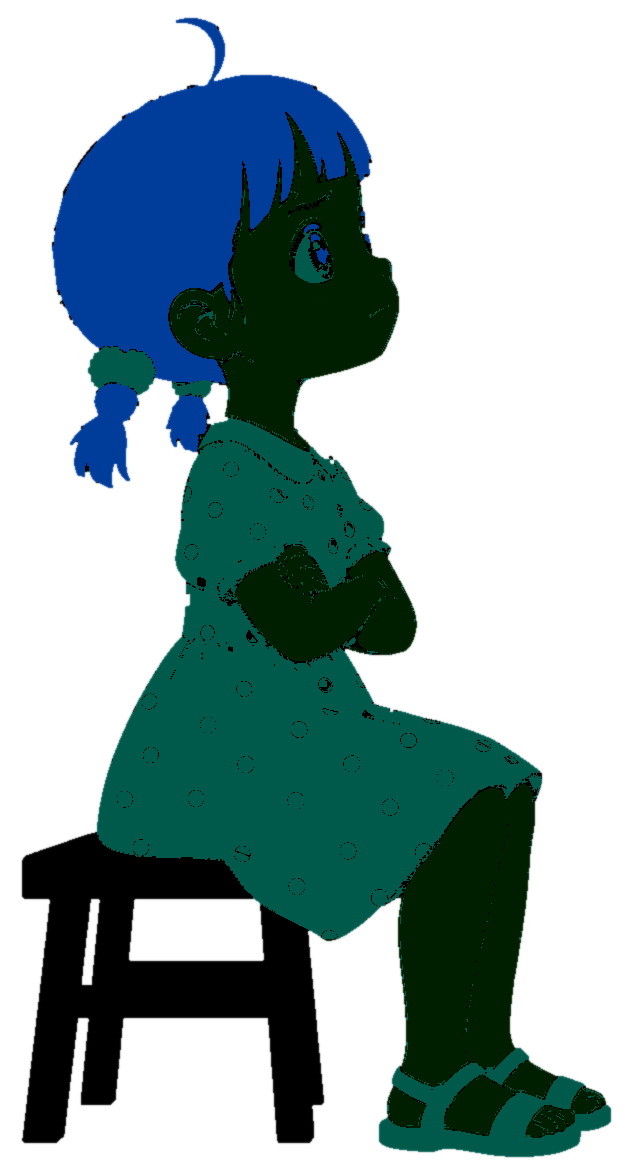
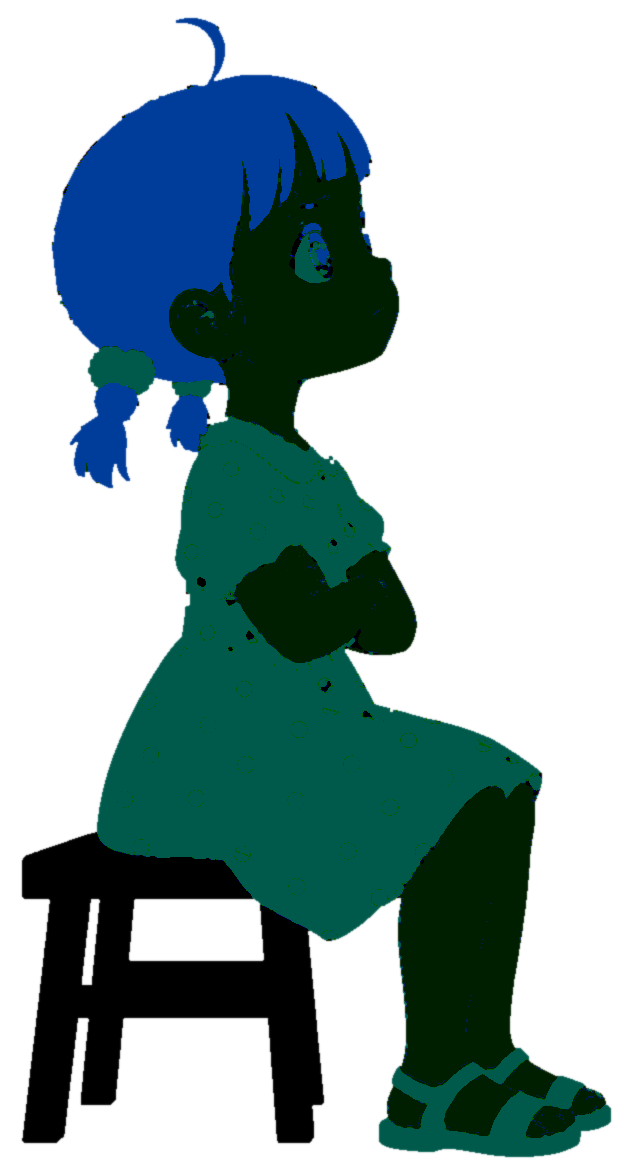
后台机位 C：奶奶（图）+ 挂着的马灯 + 两根竹签 + 床单背面和鹤
- 着色器：从后台也能看到床单（这一面直接被马灯照亮，影子一样）；材质 8 自己发光（马灯的玻璃罩和火苗）；
  后台的人物卡片受马灯照时不被代表她自己的遮挡球挡；灯在卡片背面时把灯的方向沿卡片平面镜像到正面
  （二维画里的人侧身朝灯，朝灯那侧被照亮，不再斑斑驳驳）
- s06_key.js 改成通用的 renderShot（镜头、人物卡片、签子手端、曝光可按镜头设定），第 6 场输出不变；billboardM 放图
- cards.js：addStroke（竹签）、裁切支持多个多边形
- s08_back.js：奶奶的站位、马灯（程序画）、鹤从后台看是皮面、两根签子从拳头里的握点画到鹤的 body/neck3 接点，
  床单上的签子影子用同样的手端；图上方向不一的短签裁掉
- card_maps.py：法线按材质区域和四肢的深轮廓线分块，印花、发丝、皱纹只进颜色；黑帽找线；奶奶的灰白头发、蓝衬衫、藏青裤子、黑布鞋的材质
- 测试静帧：renders/checkpoint2/s08_back_C_test.jpg

Claude-Session: https://claude.ai/code/session_018izVeBsCAWYGJUmZwpX2YC

diff --git a/js/lamp/s08_back.js b/js/lamp/s08_back.js
@@ -1,0 +1,114 @@
+// 第 8 场 · 后台机位 C：从床单背面的西北角看，画面从左到右是奶奶 → 挂着的马灯 → 床单背面和鹤。
+// 奶奶是合作 AI 画的图（collab/refs/anim_20_grandma_puppeteer.png），抠图后算好法线和材质；
+// 两根竹签由程序从她手心的握点画到鹤身上的两个接点（第四版 makeCrane 的 body / neck3），床单上的签子影子用同样的手端位置算；
+// 鹤从后台看是皮面（drawPuppet 'r'），贴在床单背面前 4 毫米；马灯是程序画的，玻璃罩和火苗自己发光。
+import { renderShot, billboardM, S, CRANE_ROOT, RODS, DEBUG, cranePose } from './s06_key.js';
+import { solve, pointOn, drawPuppet } from '../puppet.js';
+
+export const DURATION = 5;
+
+// 奶奶站的地方：这个镜头里比第 6 场往后、往东挪一点，马灯才在她和床单之间露出来，不被她挡住
+export const GRANDMA = { pos: [1.25, 1.15] };
+// 图：脚底中点（图片像素）、每厘米像素（身高约 1.5 米）、两只手的握点（低的握主签、高的握头签）
+// 图上手里那几截短签方向不一（握签的那只低手前后两截还错开了一点），裁掉露在拳头外面的部分（erase），
+// 由程序从拳头里的握点画一根直的长签，拳头盖住签子的根，签子从握点自然伸出去
+const GR = { file: 'g20_puppeteer', ox: 245, oy: 1363, sc: 9.04, grips: [[578, 641], [590, 466]],
+  erase: [[[608, 445], [665, 445], [665, 482], [608, 482]], [[588, 626], [618, 626], [618, 654], [588, 654]], [[460, 668], [495, 668], [495, 694], [460, 694]]] };
+const CAM_C = { pos: [-0.2, 1.5, 1.2], target: [1.1, 0.75, 0.95], hfov: 60 };
+
+let GM = null, LAMPM = null, CRANEC = null;
+const load = async (u) => createImageBitmap(await (await fetch(u)).blob());
+async function loadMaps(f) { const b = '/assets/chars/' + f; const [alb, nrm, mat] = await Promise.all([load(b + '.png'), load(b + '_n.png'), load(b + '_m.png')]); return { alb, nrm, mat }; }
+
+// 平涂的卡片：给一张固有色画布，配上朝镜头的法线和一种材质
+function flatMaps(alb, mat = 0, extra = 0) {
+  const mk = (fill) => { const c = new OffscreenCanvas(alb.width, alb.height), x = c.getContext('2d'); x.drawImage(alb, 0, 0); x.globalCompositeOperation = 'source-in'; x.fillStyle = fill; x.fillRect(0, 0, c.width, c.height); return c; };
+  return { alb, nrm: mk('rgb(128,128,255)'), mat: mk(`rgb(0,${mat * 30},${Math.round(extra * 255)})`) };
+}
+
+// 马灯（风灯）：铁皮油壶、玻璃罩、上盖、两根护罩铁丝、提梁，挂在钩子上。局部厘米，原点在火苗；画成 10 像素/厘米的图
+function makeLamp() {
+  const K = 10, W = 26 * K, H = 46 * K, ox = 13 * K, oy = 24 * K;     // 火苗在 (13, 24) 厘米处
+  const P = (x, y) => [ox + x * K, oy - y * K];
+  const layer = () => { const c = new OffscreenCanvas(W, H); return [c, c.getContext('2d')]; };
+  const [metal, mx] = layer(), [glass, gx] = layer(), [flame, fx] = layer();
+  const ell = (ctx, x, y, rx, ry, fill) => { ctx.fillStyle = fill; ctx.beginPath(); ctx.ellipse(...P(x, y), rx * K, ry * K, 0, 0, 6.283); ctx.fill(); };
+  const rect = (ctx, x0, y0, x1, y1, fill) => { const a = P(x0, y1), b = P(x1, y0); ctx.fillStyle = fill; ctx.fillRect(a[0], a[1], b[0] - a[0], b[1] - a[1]); };
+  // 玻璃罩（被火苗照得发亮，越靠中间越亮）
+  const g = gx.createRadialGradient(...P(0, 0.5), 0, ...P(0, 0.5), 6.5 * K);
+  g.addColorStop(0, 'rgb(255,214,150)'); g.addColorStop(0.6, 'rgb(240,170,90)'); g.addColorStop(1, 'rgb(170,100,45)');
+  gx.fillStyle = g; gx.beginPath(); gx.ellipse(...P(0, 0.5), 5.2 * K, 7.0 * K, 0, 0, 6.283); gx.fill();
+  // 火苗
+  fx.fillStyle = 'rgb(255,236,180)'; fx.beginPath();
+  fx.moveTo(...P(0, 2.6)); fx.quadraticCurveTo(...P(1.0, 0.6), ...P(0.6, -0.6)); fx.quadraticCurveTo(...P(0, -1.1), ...P(-0.6, -0.6)); fx.quadraticCurveTo(...P(-1.0, 0.6), ...P(0, 2.6)); fx.fill();
+  // 铁皮：油壶、灯座、上盖、护罩铁丝、提梁、挂钩
+  const iron = 'rgb(58,48,42)', ironHi = 'rgb(92,74,60)';
+  ell(mx, 0, -9.5, 7.5, 3.2, iron); rect(mx, -7.5, -12.5, 7.5, -9.5, iron); ell(mx, 0, -12.5, 7.5, 1.6, ironHi);     // 油壶
+  rect(mx, -4.5, -7.6, 4.5, -6.0, ironHi);                                                                        // 灯座
+  rect(mx, -4.0, 7.0, 4.0, 8.4, iron); ell(mx, 0, 9.2, 4.6, 1.6, iron); rect(mx, -1.2, 9.5, 1.2, 11.0, iron);     // 上盖、烟囱
+  mx.strokeStyle = iron; mx.lineWidth = 0.45 * K; mx.lineCap = 'round';
+  for (const s of [-1, 1]) { mx.beginPath(); mx.moveTo(...P(s * 7.0, -9.5)); mx.quadraticCurveTo(...P(s * 7.6, 0.5), ...P(s * 4.0, 7.5)); mx.stroke(); }   // 护罩铁丝
+  mx.beginPath(); mx.moveTo(...P(-6.5, -9)); mx.bezierCurveTo(...P(-9, 10), ...P(-4, 17), ...P(0, 17)); mx.bezierCurveTo(...P(4, 17), ...P(9, 10), ...P(6.5, -9)); mx.stroke();   // 提梁
+  mx.lineWidth = 0.3 * K; mx.beginPath(); mx.moveTo(...P(0, 17)); mx.lineTo(...P(0, 22)); mx.stroke();          // 挂绳
+  return { K, ox, oy, metal: flatMaps(metal, 0), glass: flatMaps(glass, 8, 0.25), flame: flatMaps(flame, 8, 1.0) };
+}
+
+// 鹤从后台看：皮面贴图（drawPuppet 'r'），2 像素/毫米，原点 (900, 1000)
+function craneCard(pup, pose) {
+  const c = new OffscreenCanvas(1800, 1800), x = c.getContext('2d');
+  x.translate(900, 1000); x.scale(2, -2);
+  drawPuppet(x, pup, pose, 'r');
+  return { maps: flatMaps(c, 0), px: (mm) => [900 + mm[0] * 2, 1000 - mm[1] * 2] };
+}
+
+// 图片像素 → 世界：奶奶的卡片正对镜头，脚底中点在她站的地方
+function gripWorld(cam, base, p) {
+  const x = (p[0] - GR.ox) / GR.sc / 100, y = (GR.oy - p[1]) / GR.sc / 100;
+  return [base[0] + cam.right[0] * x + cam.up[0] * y, base[1] + cam.right[1] * x + cam.up[1] * y, base[2] + cam.right[2] * x + cam.up[2] * y];
+}
+
+const shot = {
+  cam: CAM_C,
+  exp: 0.32,         // 人离马灯只有六十厘米，比看戏那边亮得多，曝光收到三分之一
+  // 床单上签子影子的手端：用她手心握点的世界位置 [x, z, 离床单]
+  hands: (root, t, cam) => {
+    const base = [GRANDMA.pos[0], GRANDMA.pos[1], 0];
+    return GR.grips.map((g) => { const w = gripWorld(cam, base, g); return [w[0], w[2], w[1]]; });
+  },
+  cards: async (CARDS, cam, t, ctx) => {
+    GM ||= await loadMaps(GR.file);
+    LAMPM ||= makeLamp();
+    const pose = cranePose(t), root = ctx.root, dist = 0.004;
+    // 1. 鹤（最远，贴着床单背面）：鹤的毫米 → 世界 (x, 离床单, z) → 画面
+    const cc = craneCard(ctx.crane, pose);
+    const W = (mm) => cam.project([root[0] + (pose.facing ?? 1) * mm[0] / 1000, dist, root[1] + mm[1] / 1000]);
+    const q0 = W([0, 0]), q1 = W([100, 0]), q2 = W([0, 100]);
+    // 贴图像素 → 毫米：x = (px - 900) / 2，y = (1000 - py) / 2；再接毫米 → 画面
+    const a = [(q1[0] - q0[0]) / 100, (q1[1] - q0[1]) / 100, (q2[0] - q0[0]) / 100, (q2[1] - q0[1]) / 100];
+    const mCrane = [a[0] / 2, a[1] / 2, -a[2] / 2, -a[3] / 2, q0[0] - a[0] * 450 + a[2] * 500, q0[1] - a[1] * 450 + a[3] * 500];
+    CARDS.addImage([{ maps: cc.maps, m: mCrane }], q0[2]);
+    // 2. 马灯（挂在床单和奶奶之间），火苗在 S.lamp
+    const L = S.lamp, lampBase = [L.x, L.y, L.z];
+    const mL = billboardM(cam, lampBase, LAMPM.ox, LAMPM.oy, LAMPM.K), dL = cam.project(lampBase)[2];
+    CARDS.addImage([{ maps: LAMPM.metal, m: mL }, { maps: LAMPM.glass, m: mL }, { maps: LAMPM.flame, m: mL }], dL);
+    // 3. 两根竹签：从手心握点到鹤身上的接点（同一条世界直线）
+    const base = [GRANDMA.pos[0], GRANDMA.pos[1], 0];
+    const sol = solve(ctx.crane, pose);
+    RODS.forEach((r, i) => {
+      const pm = pointOn(ctx.crane, sol, r.part, r.at);
+      const A = cam.project([root[0] + (pose.facing ?? 1) * pm[0] / 1000, dist, root[1] + pm[1] / 1000]);
+      const B = cam.project(gripWorld(cam, base, GR.grips[i]));
+      CARDS.addStroke([[A[0], A[1]], [B[0], B[1]]], Math.max(1.5, 0.007 * B[3]), '#9a7848', (A[2] + B[2]) / 2);
+    });
+    // 4. 奶奶（最近）
+    const dG = cam.project(base)[2];
+    CARDS.addImage([{ maps: GM, m: billboardM(cam, base, GR.ox, GR.oy, GR.sc), clip: { pts: GR.erase, invert: true } }], dG);
+  },
+};
+
+export async function render(ctx, arg, W, H) {
+  let t = +arg || 0;
+  if (arg && arg.startsWith('{')) { const o = JSON.parse(arg); Object.assign(DEBUG, o); t = o.t ?? 0; }
+  return renderShot(ctx, t, W, H, shot);
+}
+export async function renderFrame(ctx, t, W, H) { return renderShot(ctx, t, W, H, shot); }

diff --git a/js/lamp/s06_key.js b/js/lamp/s06_key.js
@@ -47,6 +47,11 @@ function xmProxy() {
 }
 S.occ = xmProxy();
 export const CRANE_ROOT = [1.36, 0.66];
+// 两根签子：接在鹤身子后部（翅膀底下）和第 4 节脖子上；hand(root) 是第 6 场默认的手端 [x, z, 离床单的距离]
+export const RODS = [
+  { part: 'body', at: [-75, 6], hand: (root) => [root[0] - 0.13, root[1] - 0.10, 0.42] },
+  { part: 'neck3', at: [10, 0], hand: (root) => [root[0] + 0.20, root[1] + 0.10, 0.42] },
+];
 
 // ---------------------------------------------------------------- 镜头
 export function camera(W, H, o = {}) {
@@ -73,7 +78,7 @@ const sstep = (a, b, x) => { const u = Math.min(1, Math.max(0, (x - a) / (b - a)
 const backOut = (a, b, x) => { const u = Math.min(1, Math.max(0, (x - a) / (b - a))); const c = 1.4; return 1 + (c + 1) * Math.pow(u - 1, 3) + c * Math.pow(u - 1, 2); };
 // 鹤亮相：先低着头（像在水里找东西），1.0 秒起慢慢把脖子扬起来（略冲过头再回来），然后左右看看
 export const raiseAt = (t) => backOut(1.0, 2.5, t);
-function cranePose(t) {
+export function cranePose(t) {
   // 预备：扬起之前脖子先往下沉一点（0.55～1.05 秒），再扬起、略冲过头、收住
   const prep = t > 0.55 && t < 1.15 ? Math.sin(Math.PI * Math.min(1, (t - 0.55) / 0.6)) ** 2 : 0;
   const r = raiseAt(t) - 0.14 * prep, angles = {};
@@ -134,13 +139,42 @@ export async function render(ctx, arg, W, H) {
   return renderFrame(ctx, +arg || 0, W, H);
 }
 
-export async function renderFrame(ctx, t, W, H) {
+// 一张画好的图正对镜头放在世界里（卡片垂直于视线）：图片像素 (ox, oy) 落在世界点 base，sc = 每厘米多少像素。
+// 二维画的侧面不会被斜着看压窄，也没有仰视的上下透视，投影就是缩放加平移。返回图片像素 → 画面像素的仿射变换
+export function billboardM(cam, base, ox, oy, sc) {
+  const P = (px, py) => {
+    const x = (px - ox) / sc / 100, y = (oy - py) / sc / 100;
+    const r = cam.project([base[0] + cam.right[0] * x + cam.up[0] * y, base[1] + cam.right[1] * x + cam.up[1] * y, base[2] + cam.right[2] * x + cam.up[2] * y]);
+    return [r[0], r[1]];
+  };
+  const p0 = P(0, 0), p1 = P(100, 0), p2 = P(0, 100);
+  return [(p1[0] - p0[0]) / 100, (p1[1] - p0[1]) / 100, (p2[0] - p0[0]) / 100, (p2[1] - p0[1]) / 100, p0[0], p0[1]];
+}
+
+// 第 6 场的人物卡片：小满坐在小板凳上看鹤
+async function cards06(CARDS, cam, t) {
+  const c0 = cam.project(xmWorld([0, 0])), depth = c0[2], sc = c0[3] / 100;
+  if (DEBUG.xm === 'image') {
+    // 小满用画好的图（xm_rig.js）；位置是她坐的地方（凳面中心）。镜头只仰 11°，脚底因此离地面差几厘米，看不出来
+    XMI ||= await loadRig(RIG16);
+    const R = RIG16, base = xmWorld([0, 0]); base[2] = (R.floorY - R.oy) / R.sc / 100;
+    CARDS.addImage(layers16(R, XMI, billboardM(cam, base, R.ox, R.oy, R.sc), pose16(t)), depth);
+  } else {
+    const map = (p) => { const r = cam.project(xmWorld(p)); return [r[0], r[1]]; };
+    CARDS.addAll(XMC.parts(map, xmPose(t), sc), depth);
+  }
+}
+
+export async function renderFrame(ctx, t, W, H) { return renderShot(ctx, t, W, H, {}); }
+
+// 床单戏的通用渲染：shot = { cam, cards(CARDS, cam, t), hands(root, t) → 两根签子的手端 [x, z, 离床单], cranePose(t), afterCards(CARDS, cam, t) }
+export async function renderShot(ctx, t, W, H, shot) {
   const pal = DEBUG.palette || 'plain';
   if (cranePal !== pal) { crane = makeCrane(1.35, pal); cranePal = pal; }
   POND ||= makePond(); WILLOW ||= makeWillow();
   if (!G || G.W !== W || G.H !== H) G = new GL(W, H);
   QUILTS ||= { L: quiltTex('L'), R: quiltTex('R') };
-  const cam = camera(W, H, DEBUG.cam || {});
+  const cam = camera(W, H, DEBUG.cam || shot.cam || {});
   const flick = 1 + 0.035 * Math.sin(t * 13.1) + 0.025 * Math.sin(t * 7.3 + 1.1) + 0.02 * Math.sin(t * 23.7);
 
   // 1. 床单：物理影子图
@@ -151,32 +185,14 @@ export async function renderFrame(ctx, t, W, H) {
   const img = sheetImage(sh, lampSP, [
     { pup: POND, pose: still, root: [1.30, 0.34], dist: 0.003 },
     { pup: WILLOW, pose: { ...still, rootAngle: -0.03 }, root: [sh.x0 + 0.05, sh.z1 - 0.13], dist: 0.003 },
-    { pup: crane, pose: cranePose(t), root, dist,
-    rods: [{ part: 'body', at: [-75, 6], hand: [root[0] - 0.13, root[1] - 0.10, 0.42] }, { part: 'neck3', at: [10, 0], hand: [root[0] + 0.20, root[1] + 0.10, 0.42] }] }], 900, { split: true, rodMin: 0.06, rodA: 0.8, rodFade: 0.05, rodBlur: 1.0, rodBlurMax: 46 });
+    { pup: crane, pose: (shot.cranePose || cranePose)(t), root, dist,
+    rods: RODS.map((r, i) => ({ ...r, hand: shot.hands ? shot.hands(root, t, cam)[i] : r.hand(root) })) }], 900, { split: true, rodMin: 0.06, rodA: 0.8, rodFade: 0.05, rodBlur: 1.0, rodBlurMax: 46 });
   const patches = patchRadiance(img.mask, sh, L, flick);
 
   // 2. 卡片（人物、道具）
   CARDS = CARDS && CARDS.W === W ? CARDS : new Cards(W, H);
   CARDS.clear();
-  {
-    const c0 = cam.project(xmWorld([0, 0])), depth = c0[2], sc = c0[3] / 100;
-    const map = (p) => { const r = cam.project(xmWorld(p)); return [r[0], r[1]]; };
-    if (DEBUG.xm === 'image') {
-      // 小满用画好的图（xm_rig.js）：图片像素 → 局部厘米 → 世界 → 画面
-      XMI ||= await loadRig(RIG16);
-      // 卡片垂直于镜头的视线（正对镜头）：二维画的侧面不会被斜着看压窄，也没有仰视的上下透视，投影就是缩放加平移。
-      // 位置还是她坐的地方（凳面中心）。镜头只仰 11°，脚底因此离地面差几厘米，看不出来
-      const R = RIG16, seat = (R.floorY - R.oy) / R.sc / 100, base = xmWorld([0, 0]); base[2] = seat;
-      const P = (px, py) => {
-        const x = (px - R.ox) / R.sc / 100, y = (R.oy - py) / R.sc / 100;
-        const r = cam.project([base[0] + cam.right[0] * x + cam.up[0] * y, base[1] + cam.right[1] * x + cam.up[1] * y, base[2] + cam.right[2] * x + cam.up[2] * y]);
-        return [r[0], r[1]];
-      };
-      const p0 = P(0, 0), p1 = P(100, 0), p2 = P(0, 100);
-      const m = [(p1[0] - p0[0]) / 100, (p1[1] - p0[1]) / 100, (p2[0] - p0[0]) / 100, (p2[1] - p0[1]) / 100, p0[0], p0[1]];
-      CARDS.addImage(layers16(R, XMI, m, pose16(t)), depth);
-    } else CARDS.addAll(XMC.parts(map, xmPose(t), sc), depth);
-  }
+  await (shot.cards || cards06)(CARDS, cam, t, { root, crane, flick });
   const cards = { alb: CARDS.alb, nrm: CARDS.nrm, mat: CARDS.mat };
 
   // 3. 上传、逐遍渲染
@@ -209,7 +225,7 @@ export async function renderFrame(ctx, t, W, H) {
     return b;
   };
   const b4 = blur(d4, 'b4'), b8 = blur(d8, 'b8'), b16 = blur(d16, 'b16');
-  gl.draw('final', null, { uRes: [W, H], uExp: 4.0 * (DEBUG.exp ?? 1), uTime: t, uBloom: 0.10 * (DEBUG.bloom ?? 1) }, { uSrc: tComb, uB1: b4, uB2: b8, uB3: b16 });
+  gl.draw('final', null, { uRes: [W, H], uExp: 4.0 * (DEBUG.exp ?? shot.exp ?? 1), uTime: t, uBloom: 0.10 * (DEBUG.bloom ?? 1) }, { uSrc: tComb, uB1: b4, uB2: b8, uB3: b16 });
   ctx.save(); ctx.setTransform(1, 0, 0, 1, 0, 0);
   ctx.drawImage(gl.cv, 0, 0);
   if (DEBUG.proxy) {   // 调试：把人物的遮挡球投到画面上，看构图

diff --git a/js/lamp/shaders.js b/js/lamp/shaders.js
@@ -113,6 +113,17 @@ vec3 lampE(vec3 P, vec3 N) {
   if (c <= 0.0) return vec3(0);
   return LAMP_RGB * uLampI * c / r2 * lampVis(P);
 }
+// 卡片（人物）受马灯照：后台的人物卡片不被代表她自己身体的遮挡球挡（不然自己把自己照得斑斑驳驳）
+// 卡片是一张正对镜头的二维画：灯在卡片背面（比人离镜头还远）时，把灯的方向沿卡片平面镜像到正面——
+// 画里的人是侧着身子朝灯的，朝灯那一侧（脸、手）就该被照亮；不镜像的话只有法线偏向灯的小块被照到，斑斑驳驳
+vec3 lampEcard(vec3 P, vec3 N) {
+  if (P.y < 0.0) return lampE(P, N);
+  vec3 d = uLamp - P; float r2 = dot(d, d); vec3 l = d * inversesqrt(r2);
+  vec3 cn = -uFwd; float k = 1.0;
+  if (dot(l, cn) < 0.0) { l = normalize(l - 2.0 * dot(l, cn) * cn); k = 0.85; }
+  float c = max(0.0, dot(N, l));
+  return LAMP_RGB * uLampI * k * c / r2 * beamsVis(P, uLamp);
+}
 // ---------------- 床单这块面光源对 P 的照度（只照看戏的这边）
 vec3 patchCenter(int i, int j) {
   float x = SHEET.x + (float(i) + 0.5) * (SHEET.y - SHEET.x) / 8.0;
@@ -223,11 +234,12 @@ vec3 shadeDiffuse(vec3 P, vec3 N, vec3 alb, bool shadows) {
 // ---------------- 卡片（人物、道具）
 vec3 shadeCard(vec3 P, vec3 N, vec3 V, vec3 alb, float mat, float extra) {
   int m = int(mat * 255.0 / 30.0 + 0.5);   // cards.js 里材质号 × 30 存的
+  if (m == 8) return alb * (1.0 + 7.0 * extra) * uLampI;   // 自己发光（马灯的火苗和玻璃罩），亮度随火苗闪
   float wrap = m == 1 ? 0.6 : (m == 2 ? 0.3 : 0.55);
   // 地面反光：床单前面被照亮的地面把暖光从下往上反到人身上（离床单越近越亮）
   vec3 fl = vec3(P.x + 0.25, -0.35, 0.0) - P; vec3 fw = normalize(fl);
   vec3 bounce = LAMP_RGB * ${S.bounce} * (m == 3 ? 1.6 : 1.0) * max(0.0, (dot(N, fw) + 0.5) / 1.5) * smoothstep(-3.0, -0.5, P.y);
-  vec3 E = sheetE(P, N, wrap, false) * ${S.cardSheetGain} + lampE(P, N) + moonE(P, N, false) * (m == 3 ? 0.15 : 0.3) + ambient(P, N) * 1.5 + bounce;
+  vec3 E = sheetE(P, N, wrap, false) * ${S.cardSheetGain} + lampEcard(P, N) + moonE(P, N, false) * (m == 3 ? 0.15 : 0.3) + ambient(P, N) * 1.5 + bounce;
   if (m == 1) E += LAMP_RGB * 0.02 + vec3(0.014, 0.005, 0.002);
   if (m == 3) E += LAMP_RGB * 0.012;   // 皮肤：暗部也透着一点暖（皮下散射）
   vec3 c = alb * E / PI;
@@ -257,7 +269,7 @@ void main() {
   vec3 bn; float tb = beamHit(ro, rd, bn);
   vec3 col; float depth;
   // 布帘平面
-  float tc = rd.y > 0.0 ? -ro.y / rd.y : 1e9;
+  float tc = ro.y * rd.y < 0.0 ? -ro.y / rd.y : 1e9;   // 从前面或后台都能看到床单所在的平面
   int kind = 0;   // 0 屋子 1 床单 2 左被 3 右毯 4 铁丝 5 夹子 6 房梁
   vec2 q;
   if (tb < t) { t = tb; n = bn; kind = 6; }
@@ -288,6 +300,8 @@ void main() {
        + pow(texture(uSheet, suv + vec2(0, du.y)).rgb, vec3(2.2)) + pow(texture(uSheet, suv - vec2(0, du.y)).rgb, vec3(2.2))) * 0.15;
     msk = mix(msk, vec3(dot(msk, vec3(0.3, 0.5, 0.2))), 0.15);
     vec3 s = vec3(diff + hot, diff + hot * 0.92, diff + hot * 0.8) * LAMP_RGB * msk;
+    // 从后台看：床单这一面直接被马灯照着（棉布反射约 0.7，比透过去的亮），没有"透过布看见灯芯"的那团亮；影子一样
+    if (ro.y > 0.0) s = vec3(diff * (0.7 / ${S.sheetTau}) / PI + hot * 0.08) * LAMP_RGB * msk;
     // 挂起来的褶：上沿夹子之间往下垂的弧形褶，下沿轻微的波浪；棉布在褶子处厚一点、暗一点
     float fold = 0.5 + 0.5 * sin((q.x - PIN0) / PINDX * 2.0 * PI);
     float topFold = exp(-(sheetTop(q.x) - q.y) * 9.0) * fold;

diff --git a/js/lamp/cards.js b/js/lamp/cards.js
@@ -157,7 +157,8 @@ export class Cards {
       if (L.clip) {
         ctx.beginPath();
         if (L.clip.invert) ctx.rect(-10, -10, img.width + 20, img.height + 20);
-        L.clip.pts.forEach(([x, y], i) => (i ? ctx.lineTo(x, y) : ctx.moveTo(x, y))); ctx.closePath();
+        const polys = Array.isArray(L.clip.pts[0][0]) ? L.clip.pts : [L.clip.pts];     // 一个或几个多边形
+        for (const poly of polys) { poly.forEach(([x, y], i) => (i ? ctx.lineTo(x, y) : ctx.moveTo(x, y))); ctx.closePath(); }
         ctx.clip(L.clip.invert ? 'evenodd' : 'nonzero');
       }
       ctx.globalAlpha = L.alpha ?? 1;
@@ -189,6 +190,14 @@ export class Cards {
     } }
     this.cleanMat([{ bbox: [a, b, c, d] }]);
     return [a, b, c, d];
+  }
+  // 一根细杆（比如皮影的竹签）：画面像素的折线，宽 w 像素；法线朝镜头略圆，材质 mat
+  addStroke(pts, w, color, depth, mat = 0) {
+    const path = () => { const p = new Path2D(); pts.forEach(([x, y], i) => (i ? p.lineTo(x, y) : p.moveTo(x, y))); return p; };
+    const go = (ctx, style, lw) => { ctx.save(); ctx.strokeStyle = style; ctx.lineWidth = lw; ctx.lineCap = 'round'; ctx.lineJoin = 'round'; ctx.stroke(path()); ctx.restore(); };
+    go(this.a, color, w);
+    go(this.n, 'rgb(128,128,255)', w);
+    go(this.m, `rgb(${Math.round((depth / 8) * 255)},${mat * MAT_STEP},0)`, w);
   }
   // 材质图上，两种材质交界处抗锯齿会混出中间值（比如皮肤 30 和眼睛高光 120 混成 75，会被当成"布"打光）。
   // 把这些像素换成旁边干净像素的材质号——材质边界不需要抗锯齿，颜色和法线本来就是平滑的。

diff --git a/tools/card_maps.py b/tools/card_maps.py
@@ -1,8 +1,8 @@
 # 透明底的人物图 → 光照卡片要的法线图和材质图（编码和 js/lamp/cards.js 一致）。
-# 法线：深色的轮廓线、衣褶线当作分界，每块区域按到分界的距离"鼓"起来（圆弧截面），再模糊一点；
-#       线本身取旁边区域的法线。外轮廓边上法线是横的，被侧光、逆光勾出亮边。
+# 法线：按材质区域（皮肤、头发、布）和很深的轮廓线分块，每块按到分界的距离"鼓"起来（圆弧截面），再模糊一点；
+#       细节线（印花、发丝、衣褶）只进颜色。外轮廓边上法线是横的，被侧光、逆光勾出亮边。
 # 材质：按颜色分——皮肤 1、头发 2、布 3（裙子、领子、绒球、凉鞋），其他（凳子）0；线取旁边区域的材质。
-# 用法：python3 -I tools/card_maps.py 透明底.png 法线.png 材质.png [圆鼓半径像素]
+# 用法：python3 -I tools/card_maps.py 透明底.png 法线.png 材质.png [圆鼓半径像素] [灰白头发：图片顶部多少比例以内]
 import sys
 import numpy as np
 from PIL import Image
@@ -10,22 +10,48 @@ from scipy import ndimage as ndi
 
 src, out_n, out_m = sys.argv[1:4]
 R = float(sys.argv[4]) if len(sys.argv) > 4 else 18.0
+greyTop = float(sys.argv[5]) if len(sys.argv) > 5 else 0.0
 im = np.array(Image.open(src).convert('RGBA')).astype(np.float32)
 rgb, a = im[..., :3], im[..., 3] / 255.0
 r, g, b = rgb[..., 0], rgb[..., 1], rgb[..., 2]
 L = rgb @ np.array([0.299, 0.587, 0.114])
 solid = a > 0.5
-# 比周围暗一截、而且本身就暗的细线（轮廓线、发丝、衣褶）。浅色印花（裙子上的白点）旁边的黄色虽然也比周围暗，
-# 但不是线——要是当成分界，每个白点都会鼓成一个小包，袖子裙面显得脏
-line = (L < ndi.uniform_filter(L, 7) - 18) & (L < 150) & solid
+# 分区域：材质分类（皮肤 / 头发 / 布 / 其他）的交界，加上很深、很明显的轮廓线。
+# 印花、发丝、衣褶这些细节线只进颜色，不参与造型——不然每朵小花、每绺头发都会鼓成一个包，受侧光时斑斑驳驳
+tophat = ndi.grey_closing(L, size=(5, 5)) - L
+line = (tophat > 28) & solid                                       # 所有细线（材质归属时让给旁边的区域）
 inside = solid & ~line
 # 每个像素最近的"区域内"像素（线和边缘用它的值）
+near = ndi.distance_transform_edt(~inside, return_distances=False, return_indices=True)
+mat = np.zeros(L.shape, np.uint8); extra = np.zeros(L.shape, np.float32)
+skin = (r > 195) & (g > 140) & (g < 228) & (b > 105) & (b < 205) & (r - g > 12) & (r - g < 75) & (r - b > 28)
+hair = (L < 95) & (np.abs(r - b) < 45) & (b - r < 20)          # 黑头发（深蓝的裤子不算）
+if greyTop > 0:                                                  # 奶奶的灰白头发：只在图片顶部那一截找
+    rows = np.arange(L.shape[0])[:, None] < greyTop * L.shape[0]
+    hair |= rows & (L > 120) & (L < 235) & ((rgb.max(-1) - rgb.min(-1)) < 22)
+yellow = (r > 190) & (g > 140) & (b < 130) & (r - b > 90)
+white = (L > 225) & (b > 180)
+red = (r > 150) & (g < 95) & (b < 95)
+blue = (b > r + 20) & (b > 60)                                   # 蓝底碎花衬衫、藏青裤子
+black = (L < 60) & ~hair                                         # 黑布鞋
+skin &= ~(ndi.uniform_filter(yellow.astype(np.float32), 15) > 0.3)   # 黄裙上的米色波点不是皮肤
+mat[skin] = 1
+mat[hair] = 2; extra[hair] = 0.6
+for m in (yellow, white, red, blue, black): mat[m] = 3; extra[m] = 0.3
+mat = np.where(inside, mat, mat[near[0], near[1]]); extra = np.where(inside, extra, extra[near[0], near[1]])
+# 小碎块（比如个别像素被分错）并进周围的大类
+mat = ndi.median_filter(mat, size=5)
+edgeMat = np.zeros_like(solid)
+for dy, dx in ((0, 1), (1, 0)):
+    edgeMat |= np.roll(mat, (dy, dx), axis=(0, 1)) != mat
+strong = (tophat > 45) & (L < 70) & (mat != 2)                     # 很深的轮廓线（四肢的外轮廓）；头发里的发丝线不算
+inside = solid & ~edgeMat & ~strong
 near = ndi.distance_transform_edt(~inside, return_distances=False, return_indices=True)
 
 d = ndi.distance_transform_edt(inside)
 u = np.minimum(d + 0.5, R) / R
 h = np.where(inside, R * np.sqrt(np.maximum(0.0, 1 - (1 - u) ** 2)), 0.0)
-h = ndi.gaussian_filter(h, max(1.0, R * 0.15))
+h = ndi.gaussian_filter(h, max(1.0, R * 0.3))                    # 平滑一些：剩下的分界只是平缓的凹，不是一道棱
 h = np.where(inside, h, h[near[0], near[1]])
 gy, gx = np.gradient(h)
 # 外轮廓边上：用到透明区域的距离梯度，保证法线是横的
@@ -40,17 +66,6 @@ ln = np.sqrt(nx ** 2 + ny ** 2 + nz ** 2)
 N = np.dstack([(nx / ln * 0.5 + 0.5) * 255, (ny / ln * 0.5 + 0.5) * 255, (nz / ln * 0.5 + 0.5) * 255, a * 255]).clip(0, 255).astype(np.uint8)
 Image.fromarray(N, 'RGBA').save(out_n)
 
-mat = np.zeros(L.shape, np.uint8); extra = np.zeros(L.shape, np.float32)
-skin = (r > 195) & (g > 140) & (g < 228) & (b > 105) & (b < 205) & (r - g > 12) & (r - g < 75) & (r - b > 28)
-hair = (L < 95) & (np.abs(r - b) < 45)
-yellow = (r > 190) & (g > 140) & (b < 130) & (r - b > 90)
-white = (L > 225) & (b > 180)
-red = (r > 150) & (g < 95) & (b < 95)
-skin &= ~(ndi.uniform_filter(yellow.astype(np.float32), 15) > 0.3)   # 黄裙上的米色波点不是皮肤
-mat[skin] = 1
-mat[hair] = 2; extra[hair] = 0.6
-for m in (yellow, white, red): mat[m] = 3; extra[m] = 0.3
-mat = np.where(inside, mat, mat[near[0], near[1]]); extra = np.where(inside, extra, extra[near[0], near[1]])
 M = np.dstack([np.zeros_like(mat), mat * 30, (extra * 255).astype(np.uint8), (a * 255).astype(np.uint8)]).astype(np.uint8)
 Image.fromarray(M, 'RGBA').save(out_m)
 print(out_n, out_m, 'skin %.2f hair %.2f cloth %.2f' % (skin[solid].mean(), hair[solid].mean(), (mat[solid] == 3).mean()))
